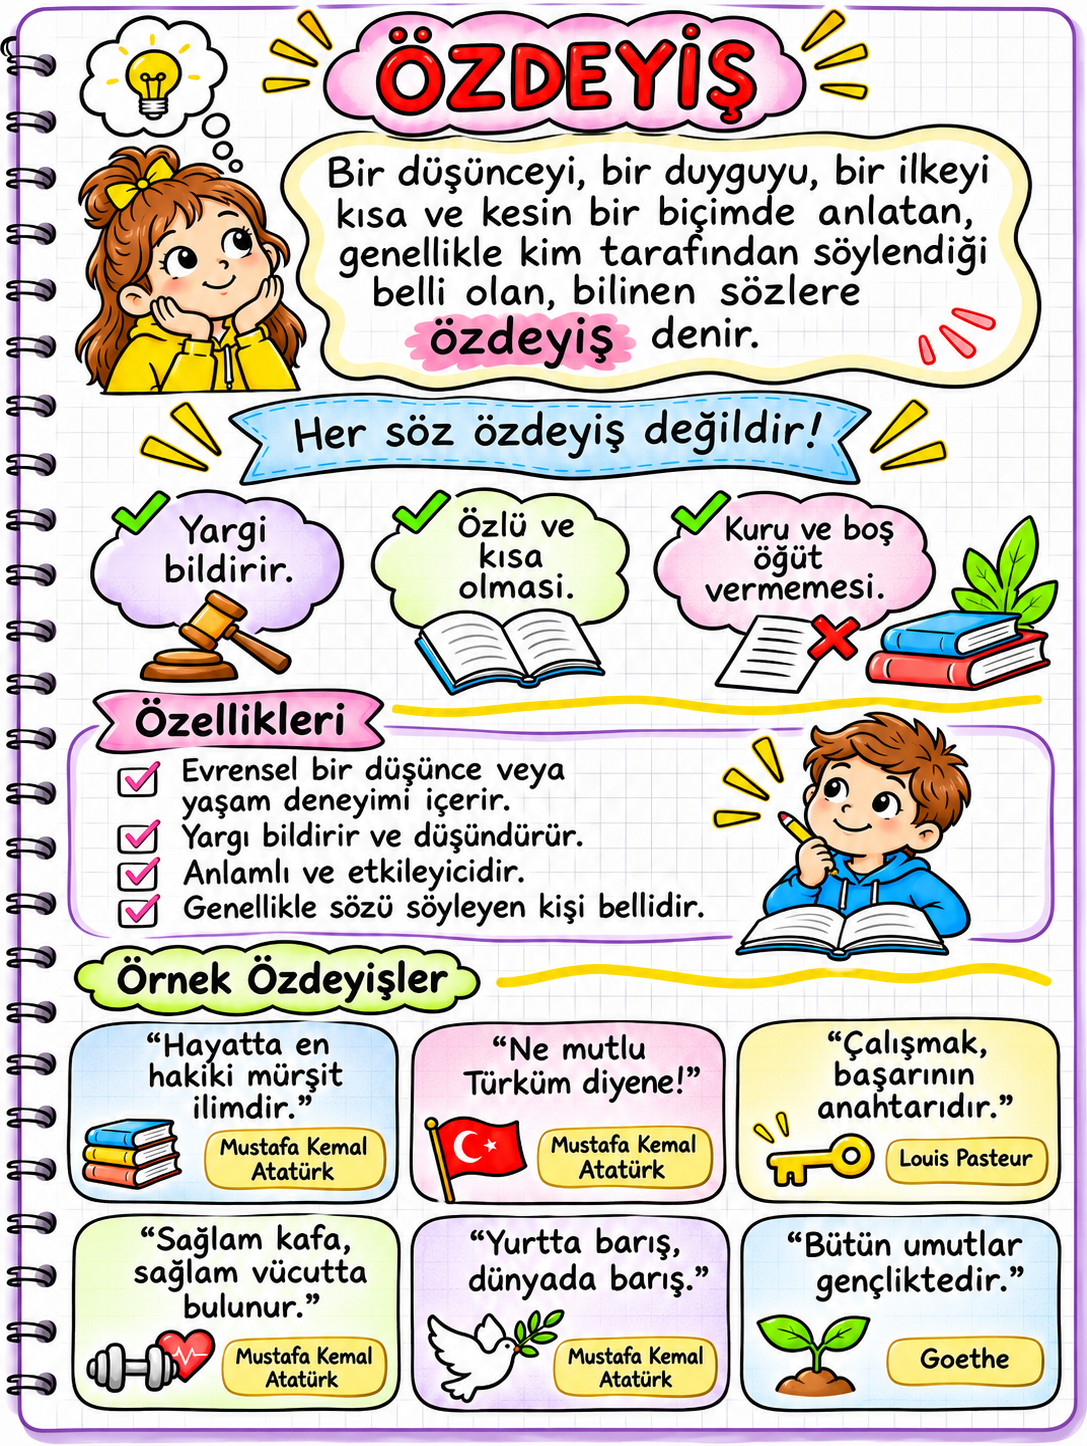
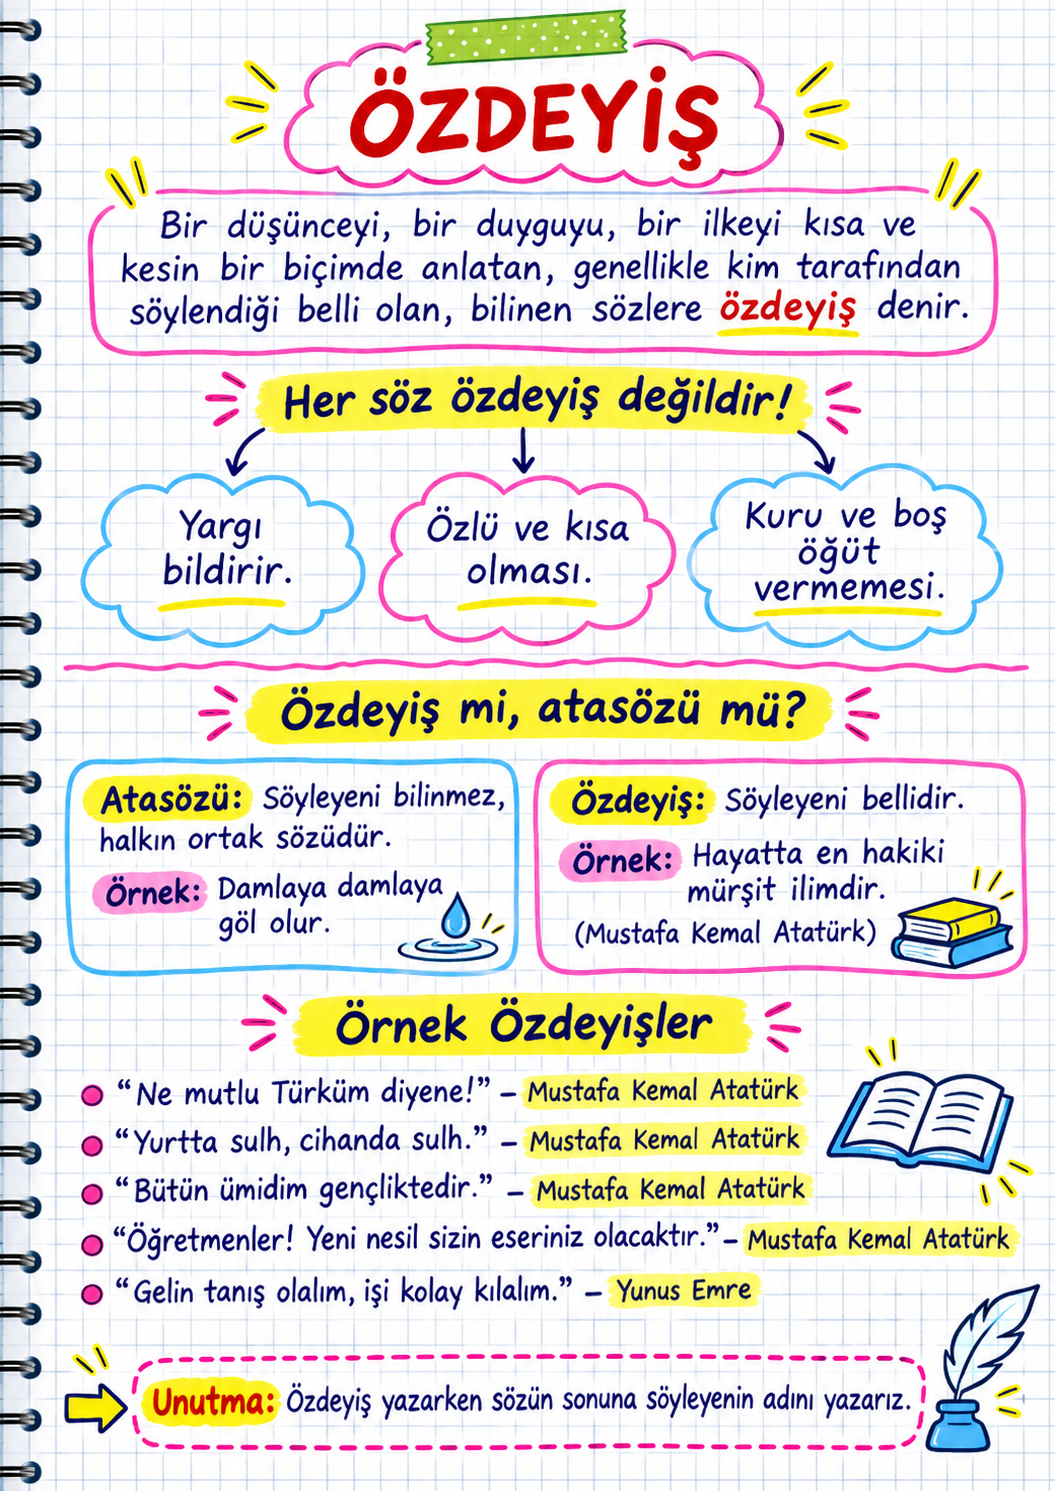
Türkçe: Özdeyişler defter notu tahtadaki notun devamı olarak yenilendi
Claude-Session: https://claude.ai/code/session_01Bbd5nRX7ihXTxa48XPUwyG

diff --git a/materyaller.html b/materyaller.html
@@ -408,7 +408,7 @@
             <li><a id="etk-turkce-not4" href="Turkce/DefterNotlari/ikilemeler.jpeg" target="_blank">İkileme Sözcükleri Defter Notu 📸</a></li>
             <li><a id="etk-turkce-not5" href="Turkce/DefterNotlari/atasozleri.png" target="_blank">Atasözleri Defter Notu 📸</a></li>
             <li><a id="etk-turkce-not6" href="Turkce/DefterNotlari/deyimler.png" target="_blank">Deyimler Defter Notu 📸</a></li>
-            <li><a id="etk-turkce-not7" href="Turkce/DefterNotlari/ozdeyisler.png" target="_blank">Özdeyişler Defter Notu 📸</a></li>
+            <li><a id="etk-turkce-not7" href="Turkce/DefterNotlari/ozdeyisler.png?v=20261112" target="_blank">Özdeyişler Defter Notu 📸</a></li>
         </ul>
         </div>
 
